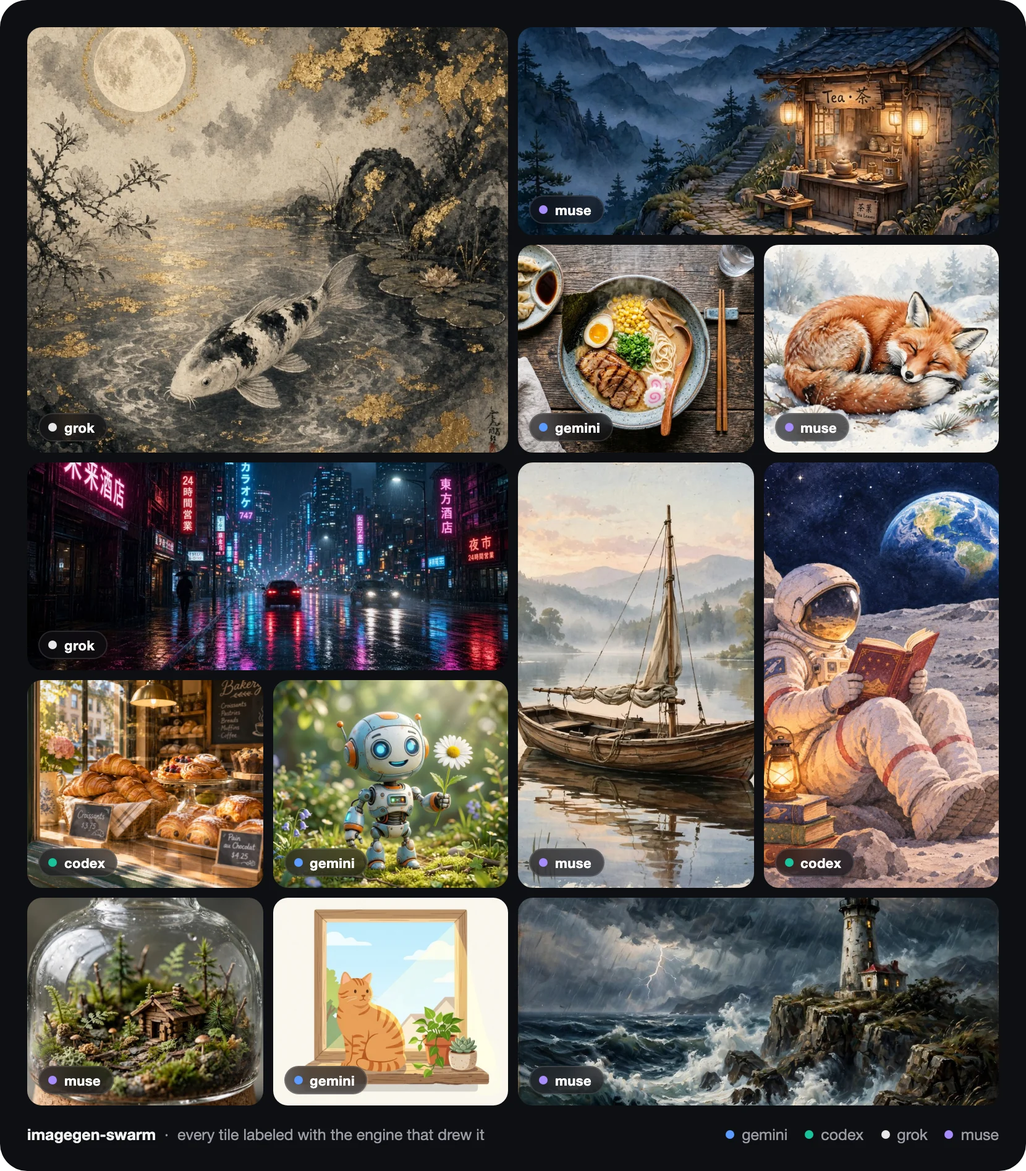
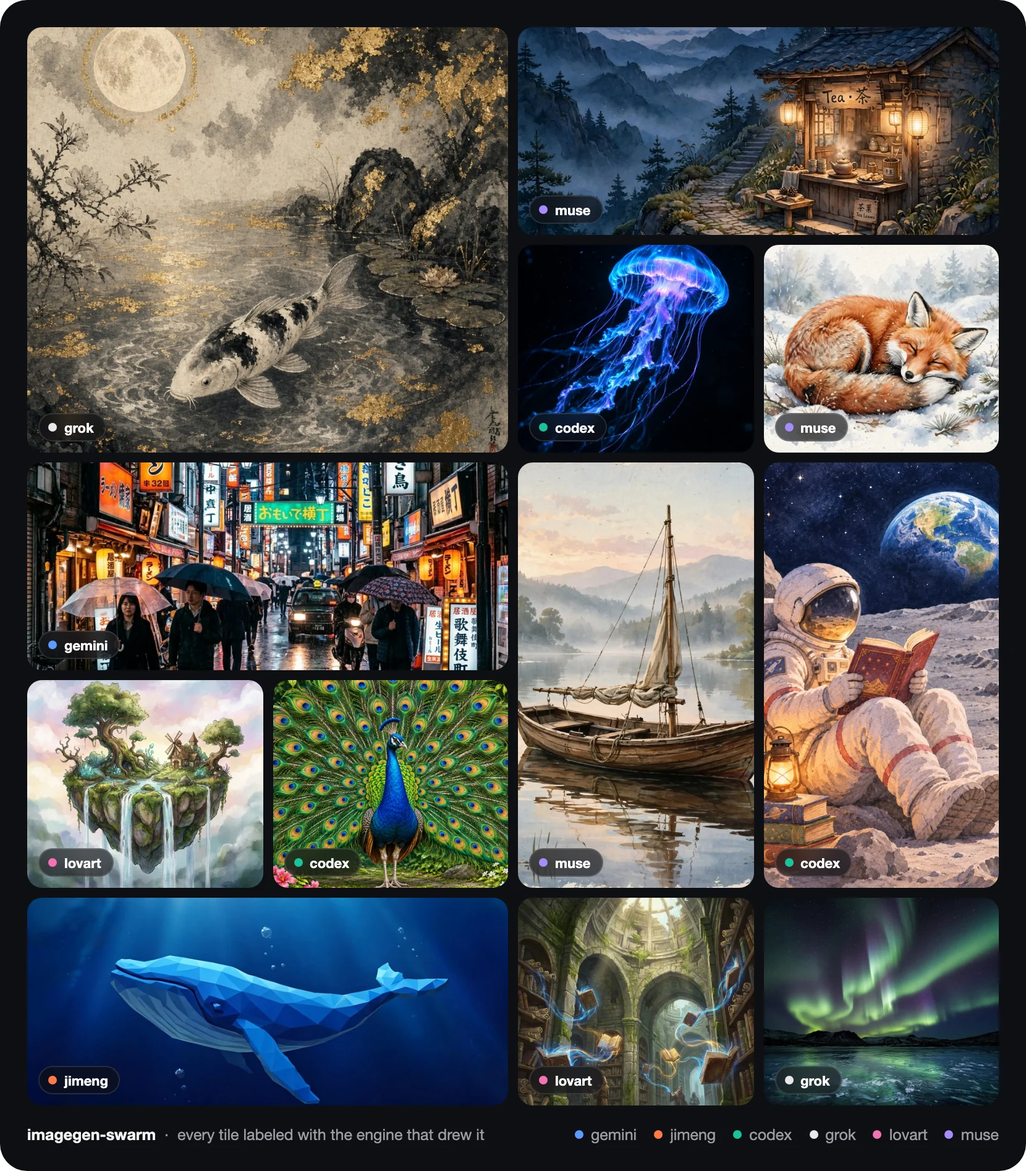
README: result card up top, gallery of the best images, timeline in its own section

diff --git a/README.md b/README.md
@@ -4,9 +4,7 @@
 
 [中文说明](README.zh-CN.md)
 
-![Images drawn by imagegen-swarm, each labeled with the engine that made it](docs/showcase.webp)
-
-![One real batch: 50 images in 2.6 minutes on an 8 GB M1 MacBook Pro, 10 times faster than the fastest single engine, with Gemini and Lovart running out of quota mid-batch and every image still delivered](docs/timeline.png)
+![50 images in 2.6 minutes, 10 times faster than one engine alone, on an 8 GB M1 MacBook Pro](docs/efficiency.png)
 
 ## Why
 
@@ -17,6 +15,16 @@ Each image tool has its own quota that resets weekly or monthly, and most of it 
 - **Correct**: every image is checked to be new from this run, wrong aspect ratios are redone by another engine, and output is always real PNG.
 - **Fits your machine**: lane counts scale with your RAM, from 12 lanes on a 4 GB laptop to 34 on 16 GB or more. Want to keep memory free for other apps? Run with `IMAGE_GEN_MEMORY_GB=4`, or set exact counts with `--lanes gemini=2,codex=2`.
 - **Resumable**: rerun the same job list and finished images are skipped.
+
+## What it makes
+
+![Images drawn by imagegen-swarm, each labeled with the engine that made it](docs/showcase.webp)
+
+## How the work is shared
+
+Every engine opens a few lanes. Each lane takes the next image in the queue, and when one engine runs out of quota the others take over. This is the real 50-image batch from the top of the page: Gemini and Lovart ran out partway through, and all 50 images were still delivered.
+
+![Timeline of the 50-image batch: each block is one image, each row is one lane, all rows running at once](docs/timeline.png)
 
 ## Engines
 

diff --git a/README.zh-CN.md b/README.zh-CN.md
@@ -4,9 +4,7 @@
 
 [English](README.md)
 
-![imagegen-swarm 画的图，每张标着是哪家引擎画的](docs/showcase.webp)
-
-![一次真实抢活：8GB 内存的 M1 MacBook Pro 上 50 张图 2.6 分钟出完，比最快的单个引擎一张接一张快 10 倍；中途 Gemini、Lovart 额度用完，50 张照样全部交付](docs/timeline.png)
+![50 张图 2.6 分钟出完，比单个引擎快 10 倍，8GB 内存的 M1 MacBook Pro 上实测](docs/efficiency.png)
 
 ## 为什么做这个
 
@@ -17,6 +15,16 @@
 - **保证对**：每张图都核对是这一次新生成的；比例不对的换别家重做；输出一律是真正的 PNG。
 - **看电脑配置**：通道数按内存自动定，4GB 的笔记本开 12 条，16GB 以上开 34 条，不会把电脑卡死。想给别的程序留内存，就加 `IMAGE_GEN_MEMORY_GB=4`，或者用 `--lanes gemini=2,codex=2` 直接指定每家几条。
 - **能续跑**：同一份清单再跑一次，已经出好的图会跳过。
+
+## 画出来的样子
+
+![imagegen-swarm 画的图，每张标着是哪家引擎画的](docs/showcase.webp)
+
+## 活是怎么分的
+
+每家引擎同时开几条通道，每条通道做完一张就接队列里的下一张；某家额度用完，别家接着做。下图就是页面顶上那一批 50 张的真实记录：中途 Gemini、Lovart 额度用完，50 张照样全部交付。
+
+![50 张那一批的时间线：每个格子是一张图，每一行是一条同时在干活的通道](docs/timeline.png)
 
 ## 引擎
 
